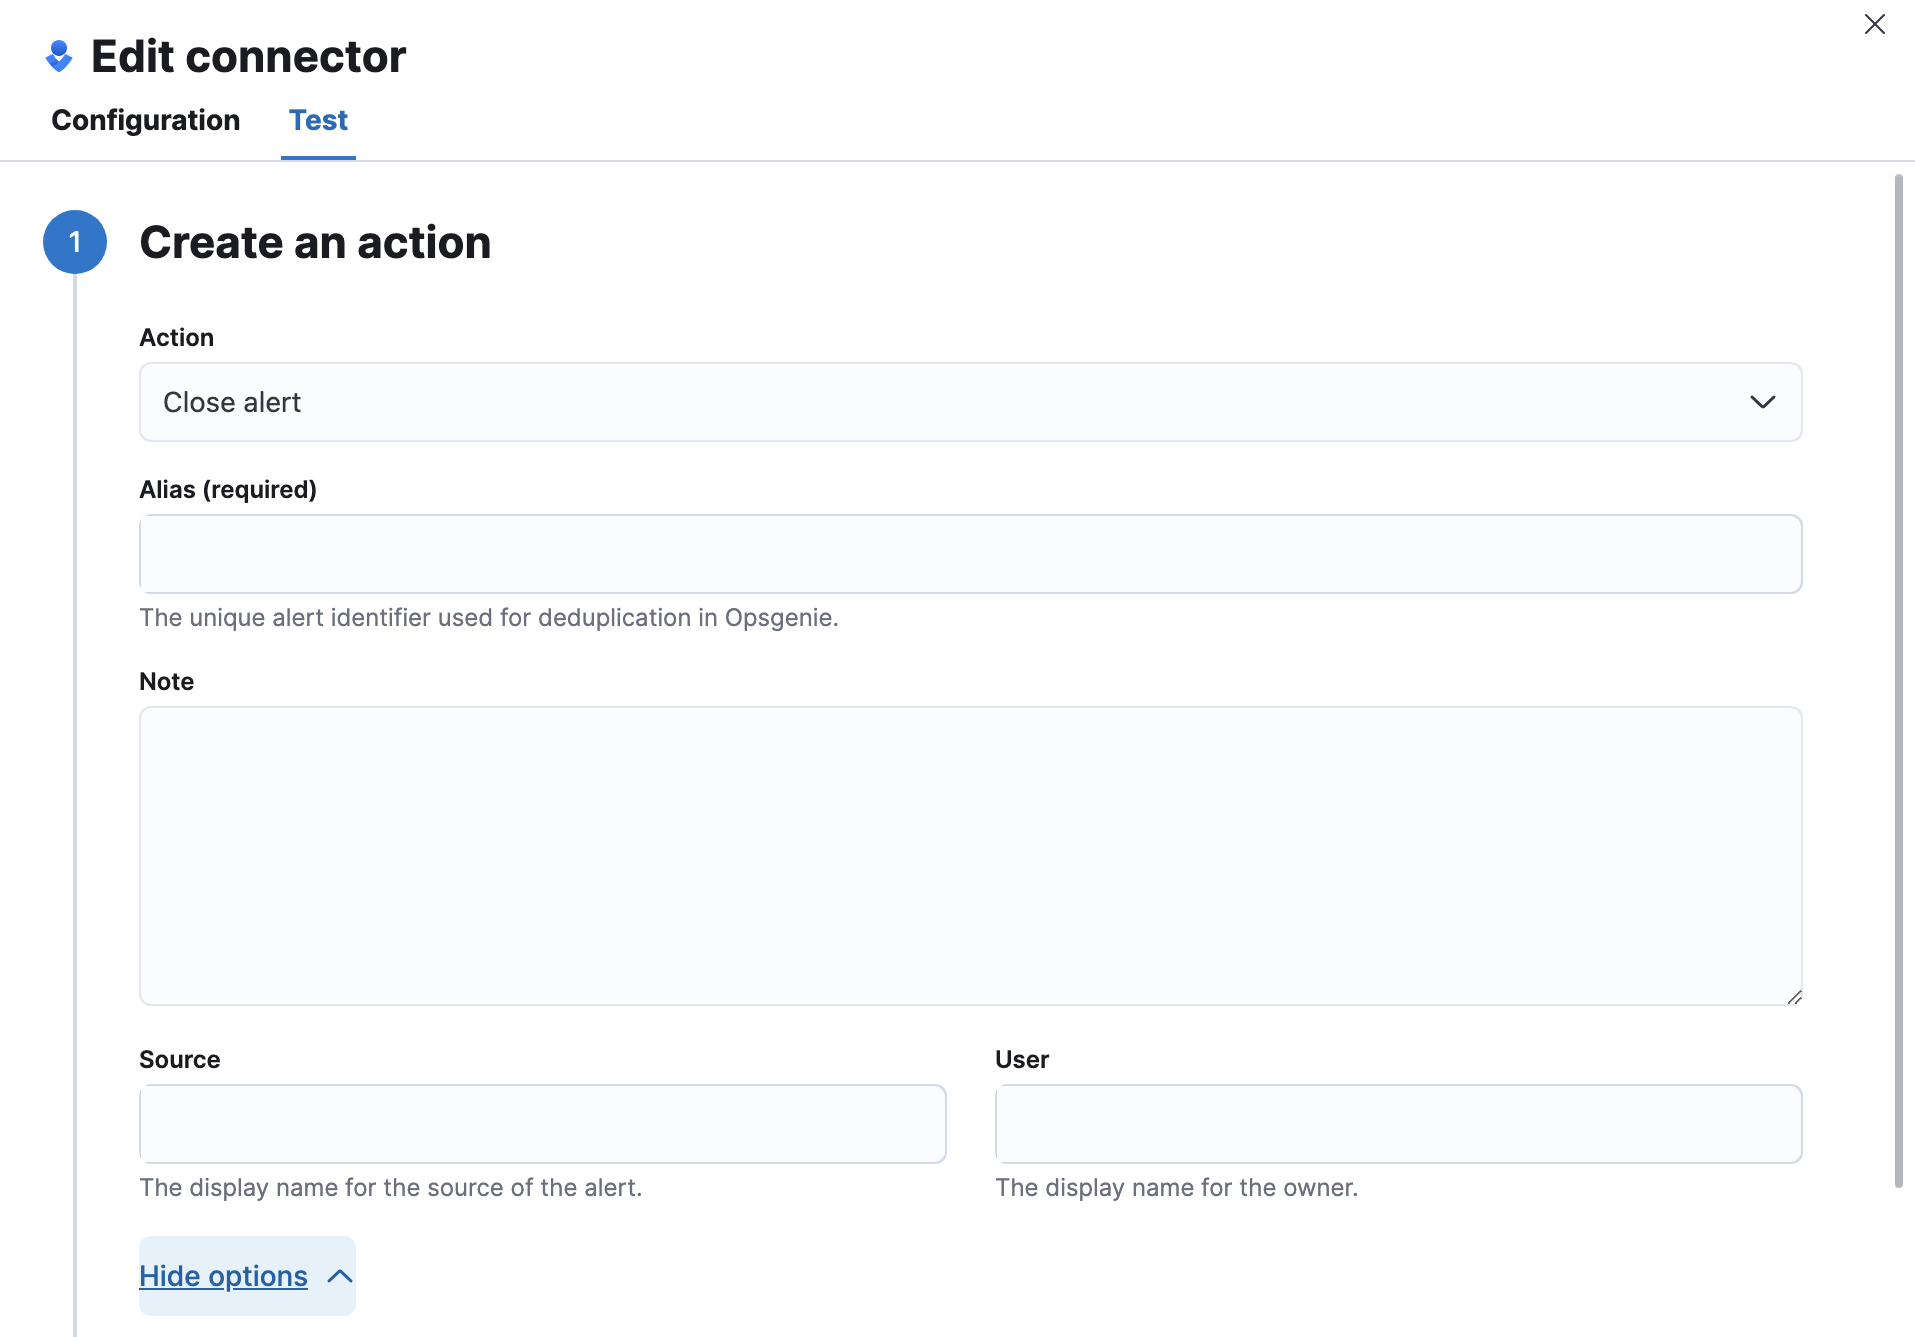
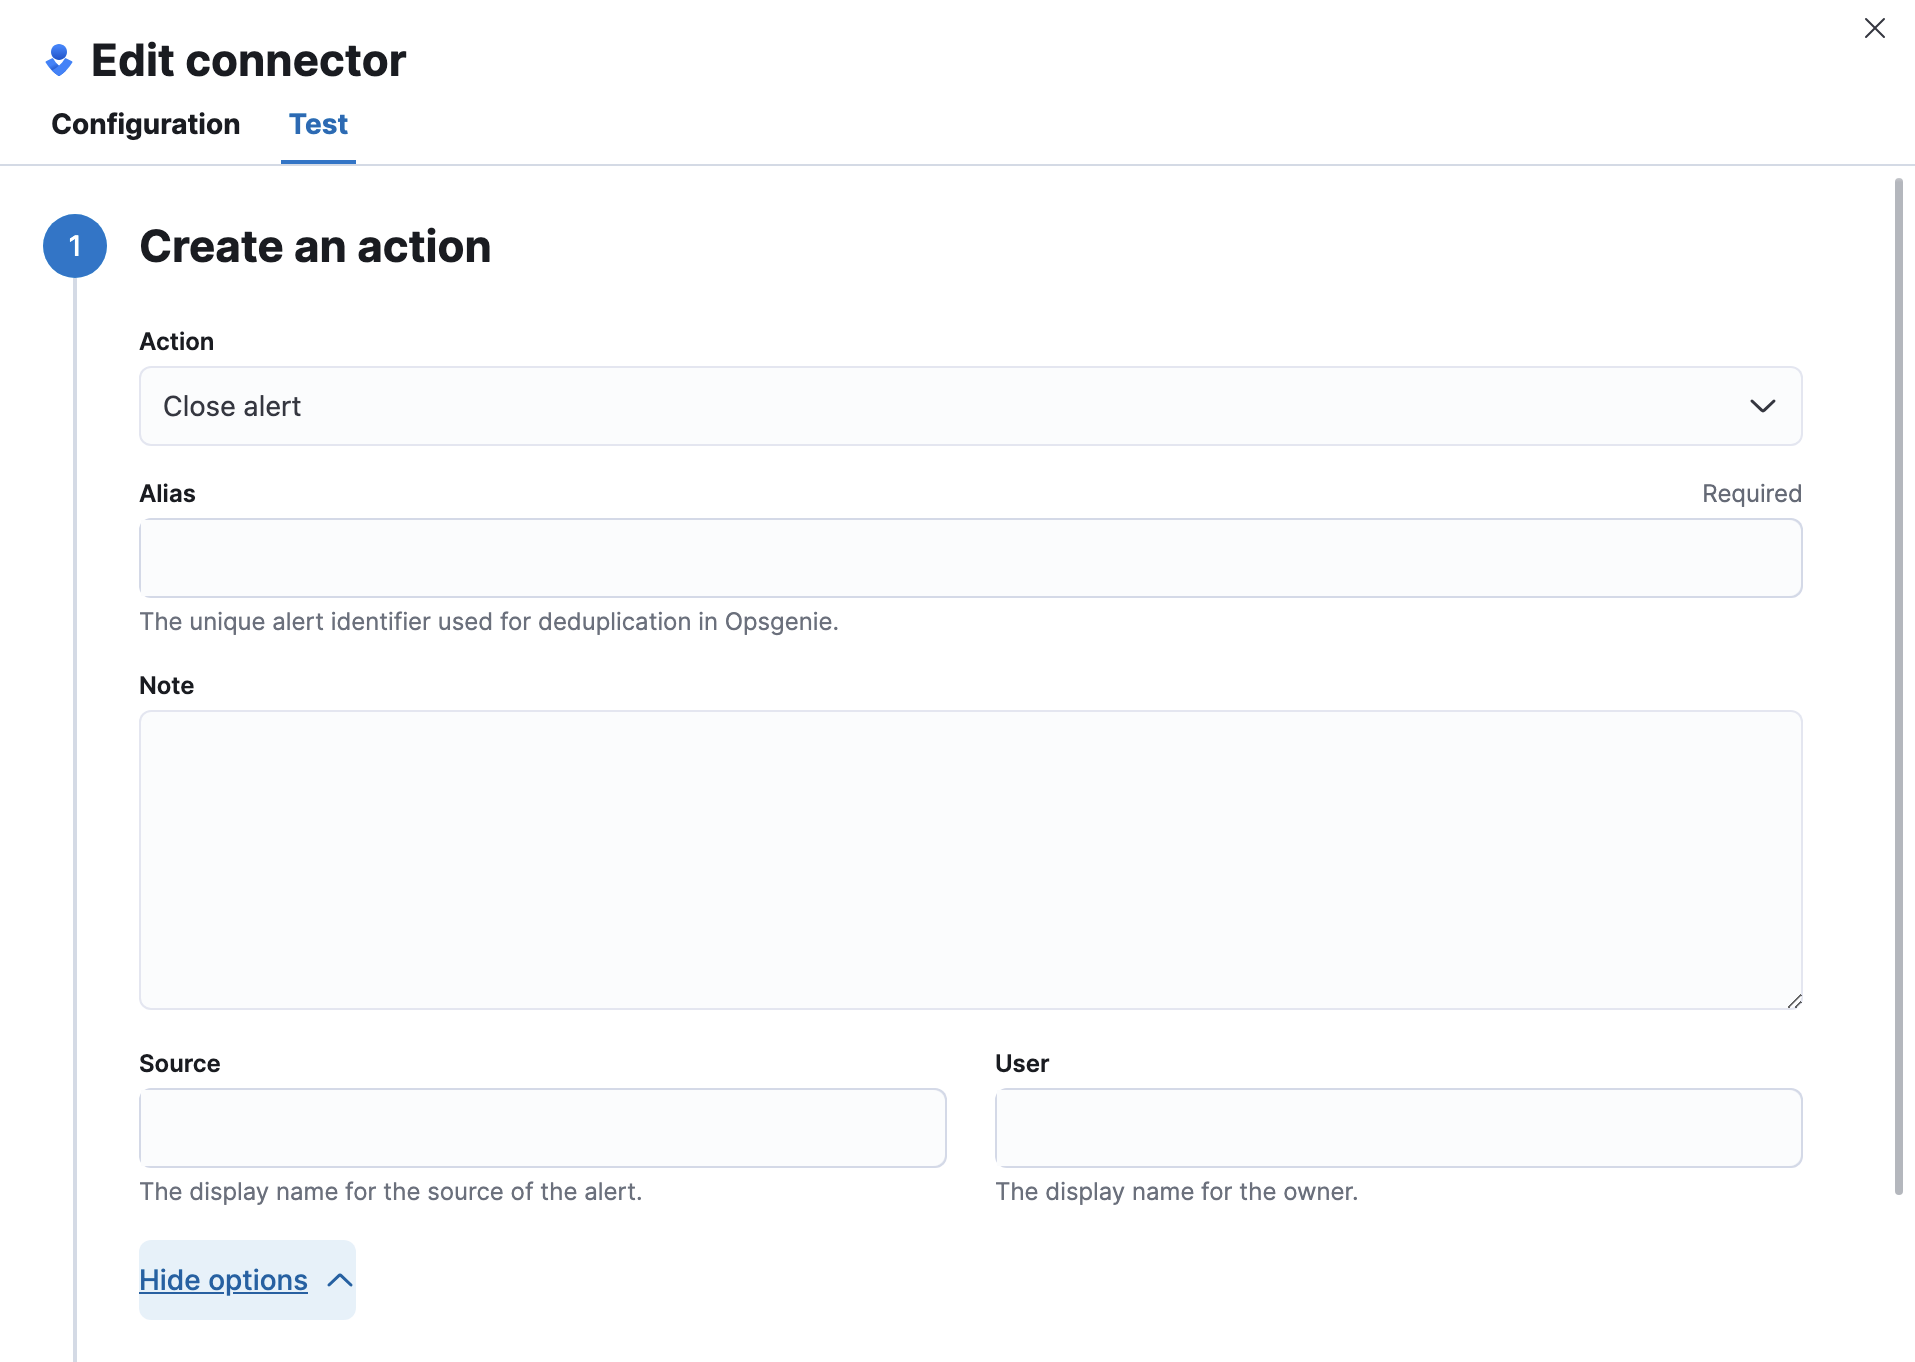
[Connectors][Opsgenie] Edits formatting for required fields (#172420)

diff --git a/x-pack/plugins/stack_connectors/public/connector_types/opsgenie/params.test.tsx b/x-pack/plugins/stack_connectors/public/connector_types/opsgenie/params.test.tsx
@@ -81,7 +81,7 @@ describe('OpsgenieParamFields', () => {
   it('renders the create alert component', async () => {
     render(<OpsgenieParamFields {...defaultCreateAlertProps} />);
 
-    expect(screen.getByText('Message (required)')).toBeInTheDocument();
+    expect(screen.getByText('Message')).toBeInTheDocument();
     expect(screen.getByText('Alias')).toBeInTheDocument();
     expect(screen.getByTestId('opsgenie-subActionSelect'));
 
@@ -93,7 +93,7 @@ describe('OpsgenieParamFields', () => {
     render(<OpsgenieParamFields {...defaultCloseAlertProps} />);
 
     expect(screen.queryByText('Message')).not.toBeInTheDocument();
-    expect(screen.getByText('Alias (required)')).toBeInTheDocument();
+    expect(screen.getByText('Alias')).toBeInTheDocument();
     expect(screen.getByTestId('opsgenie-subActionSelect'));
 
     expect(screen.queryByDisplayValue('hello')).not.toBeInTheDocument();
@@ -108,7 +108,7 @@ describe('OpsgenieParamFields', () => {
       />
     );
 
-    expect(screen.getByText('Message (required)')).toBeInTheDocument();
+    expect(screen.getByText('Message')).toBeInTheDocument();
     expect(screen.getByText('Alias')).toBeInTheDocument();
     expect(screen.queryByTestId('opsgenie-subActionSelect')).not.toBeInTheDocument();
 

diff --git a/x-pack/plugins/stack_connectors/public/connector_types/opsgenie/close_alert.tsx b/x-pack/plugins/stack_connectors/public/connector_types/opsgenie/close_alert.tsx
@@ -11,7 +11,14 @@ import {
   TextAreaWithMessageVariables,
   TextFieldWithMessageVariables,
 } from '@kbn/triggers-actions-ui-plugin/public';
-import { EuiFlexGroup, EuiFlexItem, EuiFormRow, EuiSpacer, RecursivePartial } from '@elastic/eui';
+import {
+  EuiFlexGroup,
+  EuiFlexItem,
+  EuiFormRow,
+  EuiSpacer,
+  EuiText,
+  RecursivePartial,
+} from '@elastic/eui';
 import type {
   OpsgenieActionParams,
   OpsgenieCloseAlertParams,
@@ -112,8 +119,13 @@ const CloseAlertComponent: React.FC<CloseAlertProps> = ({
         fullWidth
         error={errors['subActionParams.alias']}
         isInvalid={isAliasInvalid}
-        label={i18n.ALIAS_REQUIRED_FIELD_LABEL}
+        label={i18n.ALIAS_FIELD_LABEL}
         helpText={i18n.OPSGENIE_ALIAS_HELP}
+        labelAppend={
+          <EuiText size="xs" color="subdued">
+            {i18n.REQUIRED_LABEL}
+          </EuiText>
+        }
       >
         <TextFieldWithMessageVariables
           index={index}

diff --git a/x-pack/plugins/stack_connectors/public/connector_types/opsgenie/translations.ts b/x-pack/plugins/stack_connectors/public/connector_types/opsgenie/translations.ts
@@ -68,13 +68,6 @@ export const ALIAS_FIELD_LABEL = i18n.translate(
   }
 );
 
-export const ALIAS_REQUIRED_FIELD_LABEL = i18n.translate(
-  'xpack.stackConnectors.components.opsgenie.aliasRequiredLabel',
-  {
-    defaultMessage: 'Alias (required)',
-  }
-);
-
 export const ALIAS_IS_REQUIRED = i18n.translate(
   'xpack.stackConnectors.components.opsgenie.requiredAliasTextField',
   {
@@ -149,5 +142,12 @@ export const OPSGENIE_USER_HELP = i18n.translate(
   'xpack.stackConnectors.components.opsgenie.fieldUserHelpText',
   {
     defaultMessage: 'The display name for the owner.',
+  }
+);
+
+export const REQUIRED_LABEL = i18n.translate(
+  'xpack.stackConnectors.components.opsgenie.fieldRequiredLabel',
+  {
+    defaultMessage: 'Required',
   }
 );

diff --git a/x-pack/plugins/stack_connectors/public/connector_types/opsgenie/create_alert/translations.ts b/x-pack/plugins/stack_connectors/public/connector_types/opsgenie/create_alert/translations.ts
@@ -26,7 +26,7 @@ export const LOADING_JSON_EDITOR = i18n.translate(
 export const MESSAGE_FIELD_LABEL = i18n.translate(
   'xpack.stackConnectors.components.opsgenie.messageLabel',
   {
-    defaultMessage: 'Message (required)',
+    defaultMessage: 'Message',
   }
 );
 
@@ -105,5 +105,12 @@ export const RULE_TAGS_DESCRIPTION = i18n.translate(
   'xpack.stackConnectors.components.opsgenie.ruleTagsDescription',
   {
     defaultMessage: 'The tags of the rule.',
+  }
+);
+
+export const REQUIRED_LABEL = i18n.translate(
+  'xpack.stackConnectors.components.opsgenie.requiredLabel',
+  {
+    defaultMessage: 'Required',
   }
 );

diff --git a/x-pack/plugins/stack_connectors/public/connector_types/opsgenie/create_alert/index.tsx b/x-pack/plugins/stack_connectors/public/connector_types/opsgenie/create_alert/index.tsx
@@ -19,6 +19,7 @@ import {
   EuiFormRow,
   EuiSpacer,
   EuiSwitch,
+  EuiText,
 } from '@elastic/eui';
 import type {
   OpsgenieActionParams,
@@ -60,6 +61,11 @@ const FormView: React.FC<FormViewProps> = ({
         error={errors['subActionParams.message']}
         label={i18n.MESSAGE_FIELD_LABEL}
         isInvalid={isMessageInvalid}
+        labelAppend={
+          <EuiText size="xs" color="subdued">
+            {i18n.REQUIRED_LABEL}
+          </EuiText>
+        }
       >
         <TextFieldWithMessageVariables
           index={index}
